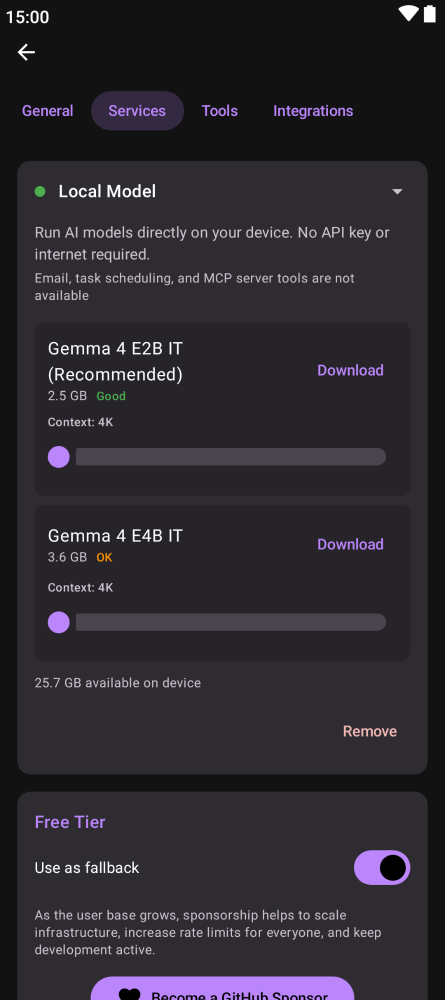
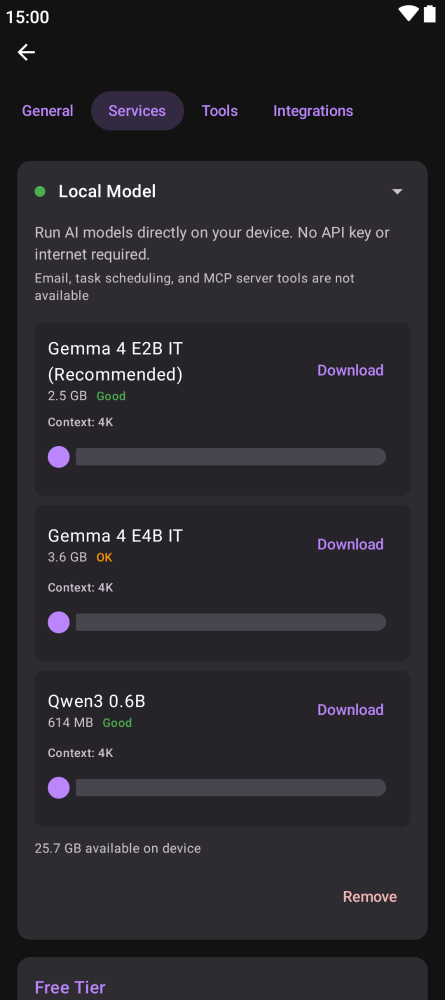
Add qwen model to screenshot data

Changed region(s): [[0.0292, 0.682, 0.964, 1.0], [0.7011, 0.682, 0.9056, 0.744], [0.9056, 0.775, 0.964, 0.806]]

diff --git a/site/run-gemma-locally/index.html b/site/run-gemma-locally/index.html
@@ -287,9 +287,9 @@
       </article>
 
       <article class="howto-step fade-in" id="step-3">
-        <h3>3. Pick a Gemma 4 model</h3>
-        <p>You'll see two models: <strong>Gemma 4 E2B IT</strong> (2.58 GB) and <strong>Gemma 4 E4B IT</strong> (3.65 GB). Kai shows a Good / OK / Poor label on each one based on your device's RAM and the context size you pick. If your phone has 6 GB of RAM, start with E2B. On an 8 GB+ machine, E4B's quality is usually worth the extra memory.</p>
-        <img src="../img/gemma-local-model-card.png" alt="LiteRT settings card showing Gemma 4 E2B and E4B with size and download buttons" loading="lazy">
+        <h3>3. Pick a model</h3>
+        <p>You'll see three models: <strong>Gemma 4 E2B IT</strong> (2.58 GB, recommended), <strong>Gemma 4 E4B IT</strong> (3.65 GB), and <strong>Qwen3 0.6B</strong> (586 MB). Kai shows a Good / OK / Poor label on each one based on your device's RAM and the context size you pick. On an 8 GB+ machine, E4B's quality is usually worth the extra memory. Qwen3 0.6B is chat-only — it can't reliably call Kai's tools.</p>
+        <img src="../img/gemma-local-model-card.png" alt="LiteRT settings card showing Gemma 4 E2B IT (recommended), Gemma 4 E4B IT, and Qwen3 0.6B with size and download buttons" loading="lazy">
       </article>
 
       <article class="howto-step fade-in" id="step-4">

diff --git a/screenshotTests/src/test/kotlin/com/inspiredandroid/kai/screenshots/GemmaLocalScreenshotTest.kt b/screenshotTests/src/test/kotlin/com/inspiredandroid/kai/screenshots/GemmaLocalScreenshotTest.kt
@@ -167,6 +167,7 @@ class GemmaLocalScreenshotTest {
 
 private val MODEL_E2B = MODEL_CATALOG.first { it.id == "gemma-4-e2b-it" }
 private val MODEL_E4B = MODEL_CATALOG.first { it.id == "gemma-4-e4b-it" }
+private val MODEL_QWEN3 = MODEL_CATALOG.first { it.id == "qwen3-0.6b" }
 
 /**
  * Mirrors the "Add service" ModalBottomSheet content in SettingsScreen. Production uses
@@ -282,7 +283,7 @@ private object GemmaLocalTestData {
                 ),
             ),
             expandedServiceId = LITERT_INSTANCE_ID,
-            localAvailableModels = persistentListOf(MODEL_E2B, MODEL_E4B),
+            localAvailableModels = persistentListOf(MODEL_E2B, MODEL_E4B, MODEL_QWEN3),
             // 8 GB keeps the Good/OK/Poor indicator in its middle bands across both models.
             totalDeviceMemoryBytes = 8L * 1024L * 1024L * 1024L,
             localFreeSpaceBytes = 24L * 1024L * 1024L * 1024L,
